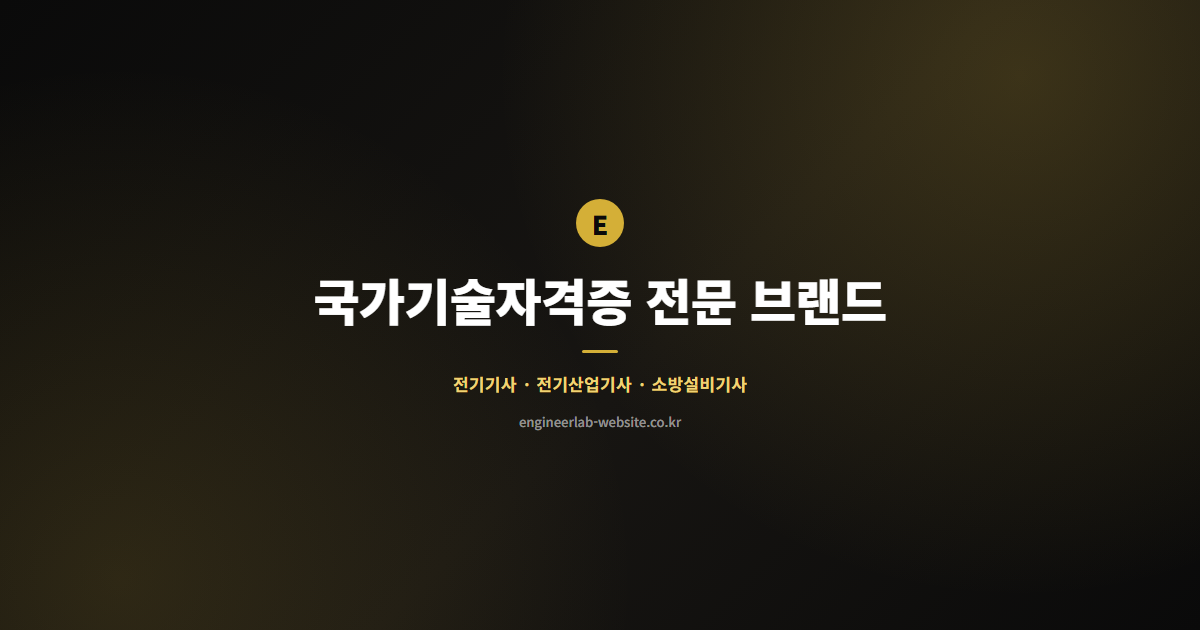
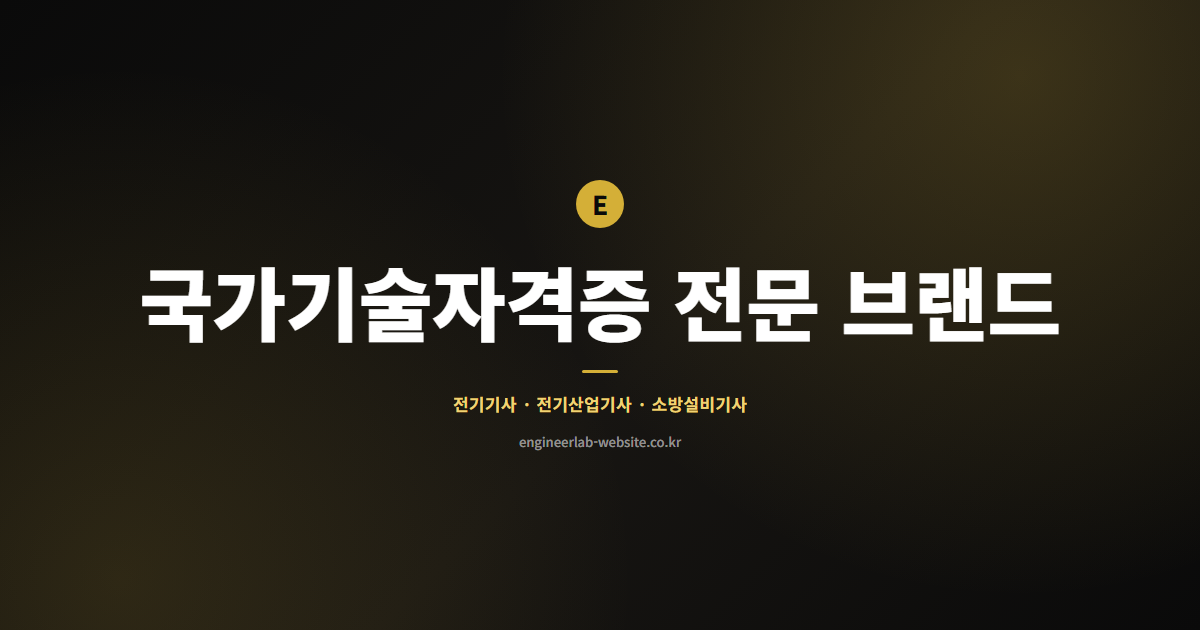
썸네일 타이틀 글씨 80px로 확대 (v6)

Changed region(s): [[0.1233, 0.4222, 0.8942, 0.7238], [0.4625, 0.2714, 0.5242, 0.3921]]

diff --git a/index.html b/index.html
@@ -13,11 +13,11 @@
 <meta property="og:title" content="엔지니어랩 - 국가기술자격증 전문 브랜드" />
 <meta property="og:description" content="전기기사·전기산업기사·전기공사기사·소방설비기사·전기기능사·공기업 채용까지, 국가기술자격증 전문 브랜드 엔지니어랩입니다." />
 <meta property="og:url" content="https://engineerlab-website.co.kr/" />
-<meta property="og:image" content="https://engineerlab-website.co.kr/og-thumbnail.png?v=5" />
+<meta property="og:image" content="https://engineerlab-website.co.kr/og-thumbnail.png?v=6" />
 <meta property="og:image:width" content="1200" />
 <meta property="og:image:height" content="630" />
 <meta name="twitter:card" content="summary_large_image" />
-<meta name="twitter:image" content="https://engineerlab-website.co.kr/og-thumbnail.png?v=5" />
+<meta name="twitter:image" content="https://engineerlab-website.co.kr/og-thumbnail.png?v=6" />
 <link rel="icon" type="image/svg+xml" href="favicon.svg">
 <script type="application/ld+json">
 {
@@ -27,7 +27,7 @@
   "alternateName": "엔지니어랩학원",
   "url": "https://engineerlab-website.co.kr/",
   "logo": "https://engineerlab-website.co.kr/favicon.svg",
-  "image": "https://engineerlab-website.co.kr/og-thumbnail.png?v=5",
+  "image": "https://engineerlab-website.co.kr/og-thumbnail.png?v=6",
   "description": "전기기사·전기산업기사·전기공사기사·소방설비기사·전기기능사·공기업 채용까지, 국가기술자격증 전문 브랜드 엔지니어랩입니다.",
   "telephone": "+82-1577-2166",
   "email": "helpenlab@kimyoung.co.kr",

diff --git a/support.html b/support.html
@@ -11,11 +11,11 @@
 <meta property="og:title" content="학습지원 시스템 - 엔지니어랩" />
 <meta property="og:description" content="엔지니어랩 CBT 모의고사, 복원 LIVE 기획특강, 교수님 1:1 학습질문, PC/모바일 학습환경 등 합격 최적화 학습지원 시스템을 소개합니다." />
 <meta property="og:url" content="https://engineerlab-website.co.kr/support.html" />
-<meta property="og:image" content="https://engineerlab-website.co.kr/og-thumbnail.png?v=5" />
+<meta property="og:image" content="https://engineerlab-website.co.kr/og-thumbnail.png?v=6" />
 <meta property="og:image:width" content="1200" />
 <meta property="og:image:height" content="630" />
 <meta name="twitter:card" content="summary_large_image" />
-<meta name="twitter:image" content="https://engineerlab-website.co.kr/og-thumbnail.png?v=5" />
+<meta name="twitter:image" content="https://engineerlab-website.co.kr/og-thumbnail.png?v=6" />
 <link rel="icon" type="image/svg+xml" href="favicon.svg">
 <script type="application/ld+json">
 {

diff --git a/teachers.html b/teachers.html
@@ -11,11 +11,11 @@
 <meta property="og:title" content="강사진 소개 - 엔지니어랩" />
 <meta property="og:description" content="전기기사 조경필 교수, 전기×공기업 김상훈 교수, 소방설비기사 이종오 교수·심승아 교수 등 엔지니어랩 강사진을 소개합니다." />
 <meta property="og:url" content="https://engineerlab-website.co.kr/teachers.html" />
-<meta property="og:image" content="https://engineerlab-website.co.kr/og-thumbnail.png?v=5" />
+<meta property="og:image" content="https://engineerlab-website.co.kr/og-thumbnail.png?v=6" />
 <meta property="og:image:width" content="1200" />
 <meta property="og:image:height" content="630" />
 <meta name="twitter:card" content="summary_large_image" />
-<meta name="twitter:image" content="https://engineerlab-website.co.kr/og-thumbnail.png?v=5" />
+<meta name="twitter:image" content="https://engineerlab-website.co.kr/og-thumbnail.png?v=6" />
 <link rel="icon" type="image/svg+xml" href="favicon.svg">
 <script type="application/ld+json">
 {

diff --git a/professor-sim.html b/professor-sim.html
@@ -11,11 +11,11 @@
 <meta property="og:title" content="심승아 교수 프로필 - 엔지니어랩" />
 <meta property="og:description" content="소방설비기사 심승아 교수 프로필. 서울시립대학교 방재공학전공 석사, 前 한방유비스(주) 소방 실무 경력." />
 <meta property="og:url" content="https://engineerlab-website.co.kr/professor-sim.html" />
-<meta property="og:image" content="https://engineerlab-website.co.kr/og-thumbnail.png?v=5" />
+<meta property="og:image" content="https://engineerlab-website.co.kr/og-thumbnail.png?v=6" />
 <meta property="og:image:width" content="1200" />
 <meta property="og:image:height" content="630" />
 <meta name="twitter:card" content="summary_large_image" />
-<meta name="twitter:image" content="https://engineerlab-website.co.kr/og-thumbnail.png?v=5" />
+<meta name="twitter:image" content="https://engineerlab-website.co.kr/og-thumbnail.png?v=6" />
 <link rel="icon" type="image/svg+xml" href="favicon.svg">
 <script type="application/ld+json">
 {

diff --git a/professor-lee.html b/professor-lee.html
@@ -11,11 +11,11 @@
 <meta property="og:title" content="이종오 교수 프로필 - 엔지니어랩" />
 <meta property="og:description" content="소방설비기사 이종오 교수 프로필. 가천대학교 소방방재학 석사, 소방 현장 실무경력 10년 이상." />
 <meta property="og:url" content="https://engineerlab-website.co.kr/professor-lee.html" />
-<meta property="og:image" content="https://engineerlab-website.co.kr/og-thumbnail.png?v=5" />
+<meta property="og:image" content="https://engineerlab-website.co.kr/og-thumbnail.png?v=6" />
 <meta property="og:image:width" content="1200" />
 <meta property="og:image:height" content="630" />
 <meta name="twitter:card" content="summary_large_image" />
-<meta name="twitter:image" content="https://engineerlab-website.co.kr/og-thumbnail.png?v=5" />
+<meta name="twitter:image" content="https://engineerlab-website.co.kr/og-thumbnail.png?v=6" />
 <link rel="icon" type="image/svg+xml" href="favicon.svg">
 <script type="application/ld+json">
 {

diff --git a/professor-cho.html b/professor-cho.html
@@ -11,11 +11,11 @@
 <meta property="og:title" content="조경필 교수 프로필 - 엔지니어랩" />
 <meta property="og:description" content="전기기사 조경필 교수 프로필. 前 조선대 이공대학 겸임교수, 前 동강대 전기전자 외래교수." />
 <meta property="og:url" content="https://engineerlab-website.co.kr/professor-cho.html" />
-<meta property="og:image" content="https://engineerlab-website.co.kr/og-thumbnail.png?v=5" />
+<meta property="og:image" content="https://engineerlab-website.co.kr/og-thumbnail.png?v=6" />
 <meta property="og:image:width" content="1200" />
 <meta property="og:image:height" content="630" />
 <meta name="twitter:card" content="summary_large_image" />
-<meta name="twitter:image" content="https://engineerlab-website.co.kr/og-thumbnail.png?v=5" />
+<meta name="twitter:image" content="https://engineerlab-website.co.kr/og-thumbnail.png?v=6" />
 <link rel="icon" type="image/svg+xml" href="favicon.svg">
 <script type="application/ld+json">
 {

diff --git a/pricing.html b/pricing.html
@@ -11,11 +11,11 @@
 <meta property="og:title" content="수강신청 - 엔지니어랩" />
 <meta property="og:description" content="전기기사, 전기×공기업, 소방설비기사 패스 상품과 시크릿코드 할인 혜택을 확인하고 수강신청하세요." />
 <meta property="og:url" content="https://engineerlab-website.co.kr/pricing.html" />
-<meta property="og:image" content="https://engineerlab-website.co.kr/og-thumbnail.png?v=5" />
+<meta property="og:image" content="https://engineerlab-website.co.kr/og-thumbnail.png?v=6" />
 <meta property="og:image:width" content="1200" />
 <meta property="og:image:height" content="630" />
 <meta name="twitter:card" content="summary_large_image" />
-<meta name="twitter:image" content="https://engineerlab-website.co.kr/og-thumbnail.png?v=5" />
+<meta name="twitter:image" content="https://engineerlab-website.co.kr/og-thumbnail.png?v=6" />
 <link rel="icon" type="image/svg+xml" href="favicon.svg">
 <script type="application/ld+json">
 {

diff --git a/professor-kim.html b/professor-kim.html
@@ -11,11 +11,11 @@
 <meta property="og:title" content="김상훈 교수 프로필 - 엔지니어랩" />
 <meta property="og:description" content="전기×공기업 김상훈 교수 프로필. 전기공학 박사, 前 인하공업전문대학 교수." />
 <meta property="og:url" content="https://engineerlab-website.co.kr/professor-kim.html" />
-<meta property="og:image" content="https://engineerlab-website.co.kr/og-thumbnail.png?v=5" />
+<meta property="og:image" content="https://engineerlab-website.co.kr/og-thumbnail.png?v=6" />
 <meta property="og:image:width" content="1200" />
 <meta property="og:image:height" content="630" />
 <meta name="twitter:card" content="summary_large_image" />
-<meta name="twitter:image" content="https://engineerlab-website.co.kr/og-thumbnail.png?v=5" />
+<meta name="twitter:image" content="https://engineerlab-website.co.kr/og-thumbnail.png?v=6" />
 <link rel="icon" type="image/svg+xml" href="favicon.svg">
 <script type="application/ld+json">
 {

diff --git a/reviews.html b/reviews.html
@@ -11,11 +11,11 @@
 <meta property="og:title" content="합격 후기 - 엔지니어랩" />
 <meta property="og:description" content="전기기사·전기산업기사·소방설비기사 실제 수강생들의 합격 후기입니다." />
 <meta property="og:url" content="https://engineerlab-website.co.kr/reviews.html" />
-<meta property="og:image" content="https://engineerlab-website.co.kr/og-thumbnail.png?v=5" />
+<meta property="og:image" content="https://engineerlab-website.co.kr/og-thumbnail.png?v=6" />
 <meta property="og:image:width" content="1200" />
 <meta property="og:image:height" content="630" />
 <meta name="twitter:card" content="summary_large_image" />
-<meta name="twitter:image" content="https://engineerlab-website.co.kr/og-thumbnail.png?v=5" />
+<meta name="twitter:image" content="https://engineerlab-website.co.kr/og-thumbnail.png?v=6" />
 <link rel="icon" type="image/svg+xml" href="favicon.svg">
 <script type="application/ld+json">
 {
